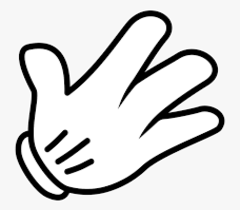
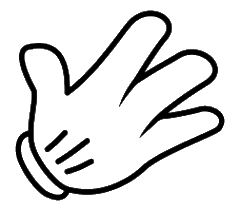
Made images transparent, added background color

diff --git a/main.css b/main.css
@@ -2,63 +2,73 @@
     margin: 0;
     padding: 0;
     box-sizing: border-box;
-}
-
-.container {
+  }
+  
+  body {
+    background-color: lightblue;
+  }
+  
+  .container {
     max-width: 560px;
     width: 90%;
+    height: 75vh;
     margin: 0 auto;
     display: flex;
     flex-direction: column;
-}
-
-img {
-   width: 100%;
-   max-width: 150px;
-   cursor: pointer;
-}
-
-.main-title{
+    justify-content: center;
+  }
+  
+  img {
+    width: 100%;
+    max-width: 150px;
+    cursor: pointer;
+  }
+  
+  .main-title {
     text-align: center;
     margin: 5rem 0 4rem 0;
-}
-
-.scoreboard {
+  }
+  
+  .scoreboard {
     border: 3px solid #000;
     border-radius: 15px;
     max-width: 300px;
     margin: 0 auto 5rem auto;
     text-align: center;
-}
-
-.score-title {
+    width: 100%;
+  }
+  
+  .score-title {
     font-size: 1.2rem;
     margin: 1rem;
-}
-
-.score-msg {
+  }
+  
+  .score-msg {
     font-size: 1.1rem;
     margin-bottom: 1rem;
-}
-
-.score {
+  }
+  
+  .score {
     font-size: 1.3rem;
     margin-bottom: 1rem;
-}
-
-.player-score {
-   margin-right: 0.5rem;
-}
-
-.buttons {
+  }
+  
+  .player-score {
+    margin-right: 0.5rem;
+  }
+  
+  .button-container {
     display: flex;
     justify-content: center;
-}
-
-.button {
-    outline: none;
-}
-
-.btn + .btn {
+  }
+  
+  button {
+    outline: 0;
+    border: none;
+    background: transparent;
+  }
+  
+  .btn + .btn {
     margin-left: 3rem;
-}
+  }
+  

diff --git a/index.html b/index.html
@@ -14,7 +14,7 @@
             <p class="score">Player:   <span class="player-score">0</span>   </p>
             <p class="score">Computer: <span class="computer-score">0</span> </p>
         </div>
-        <div class="buttons">
+        <div class="button-container">
             <button class="btn rock">
                 <img src="images/rock.png" alt="Rock">
             </button>
